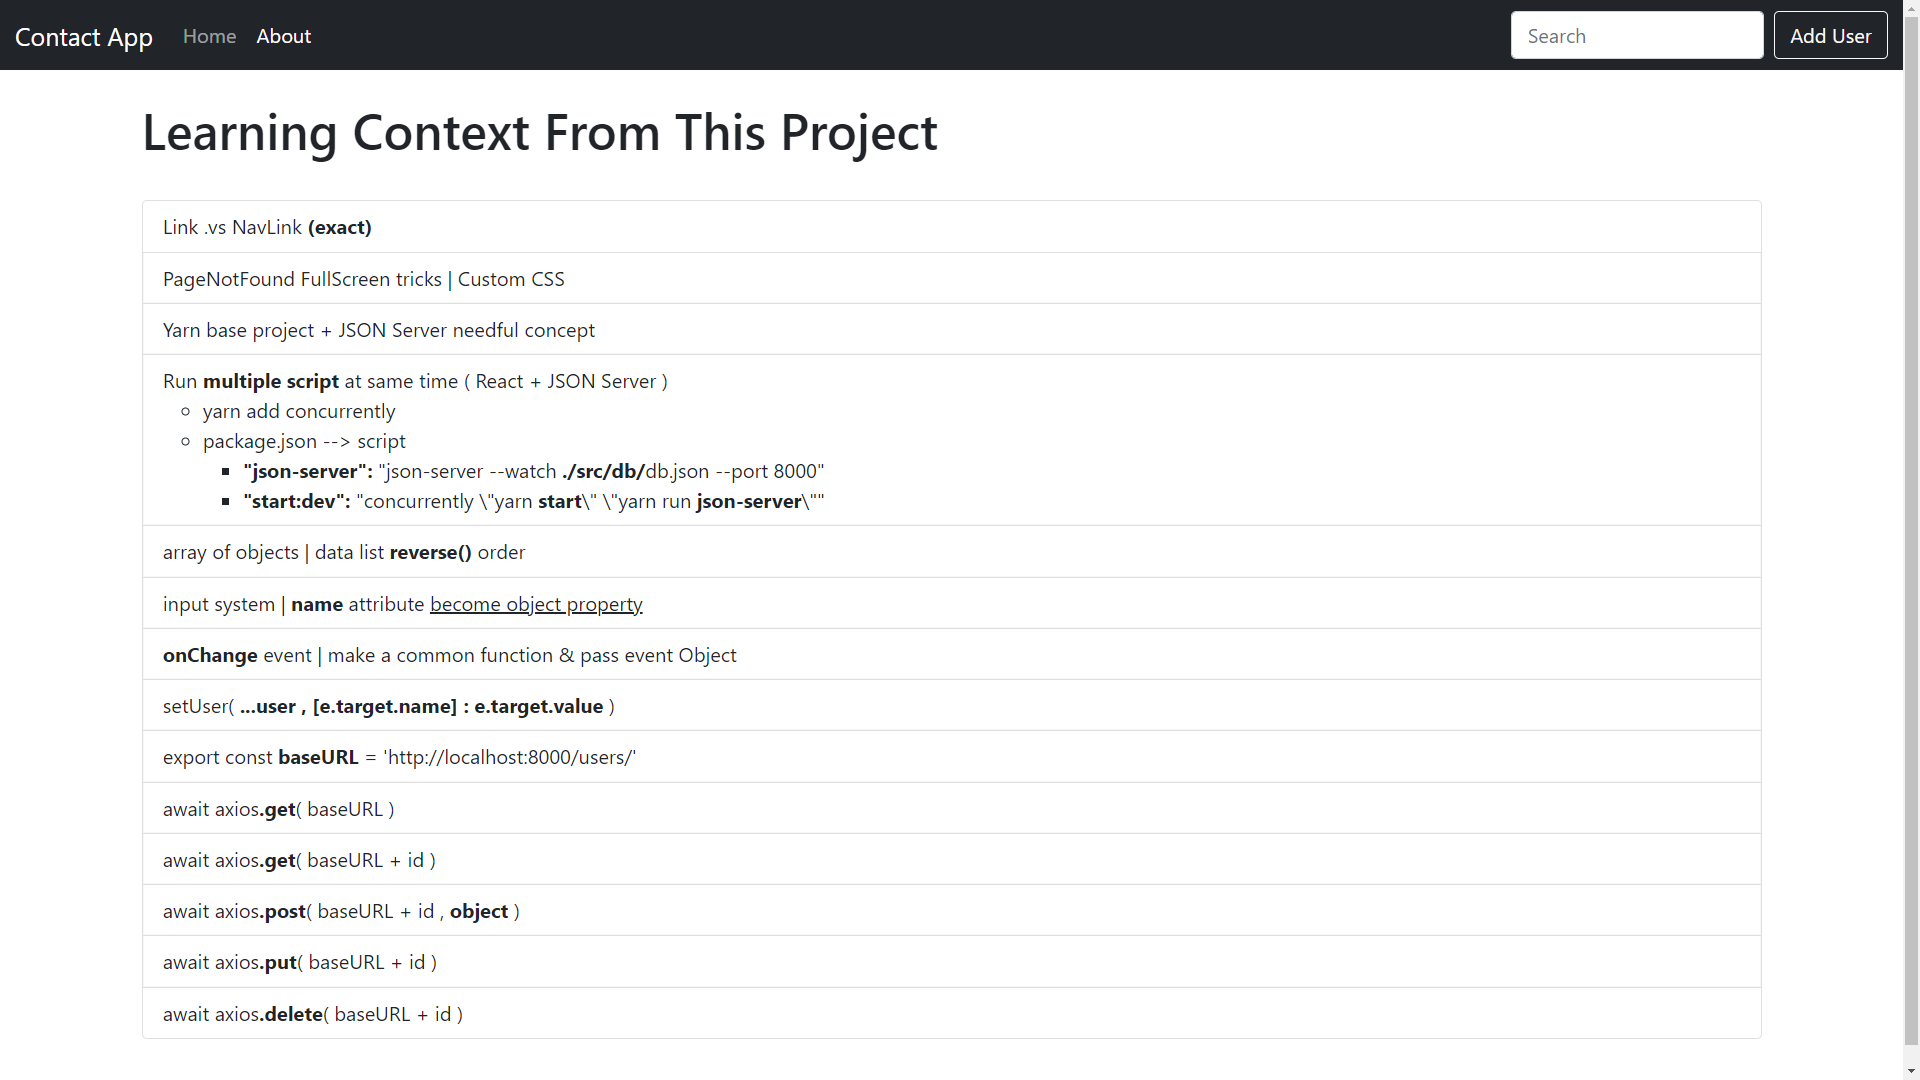
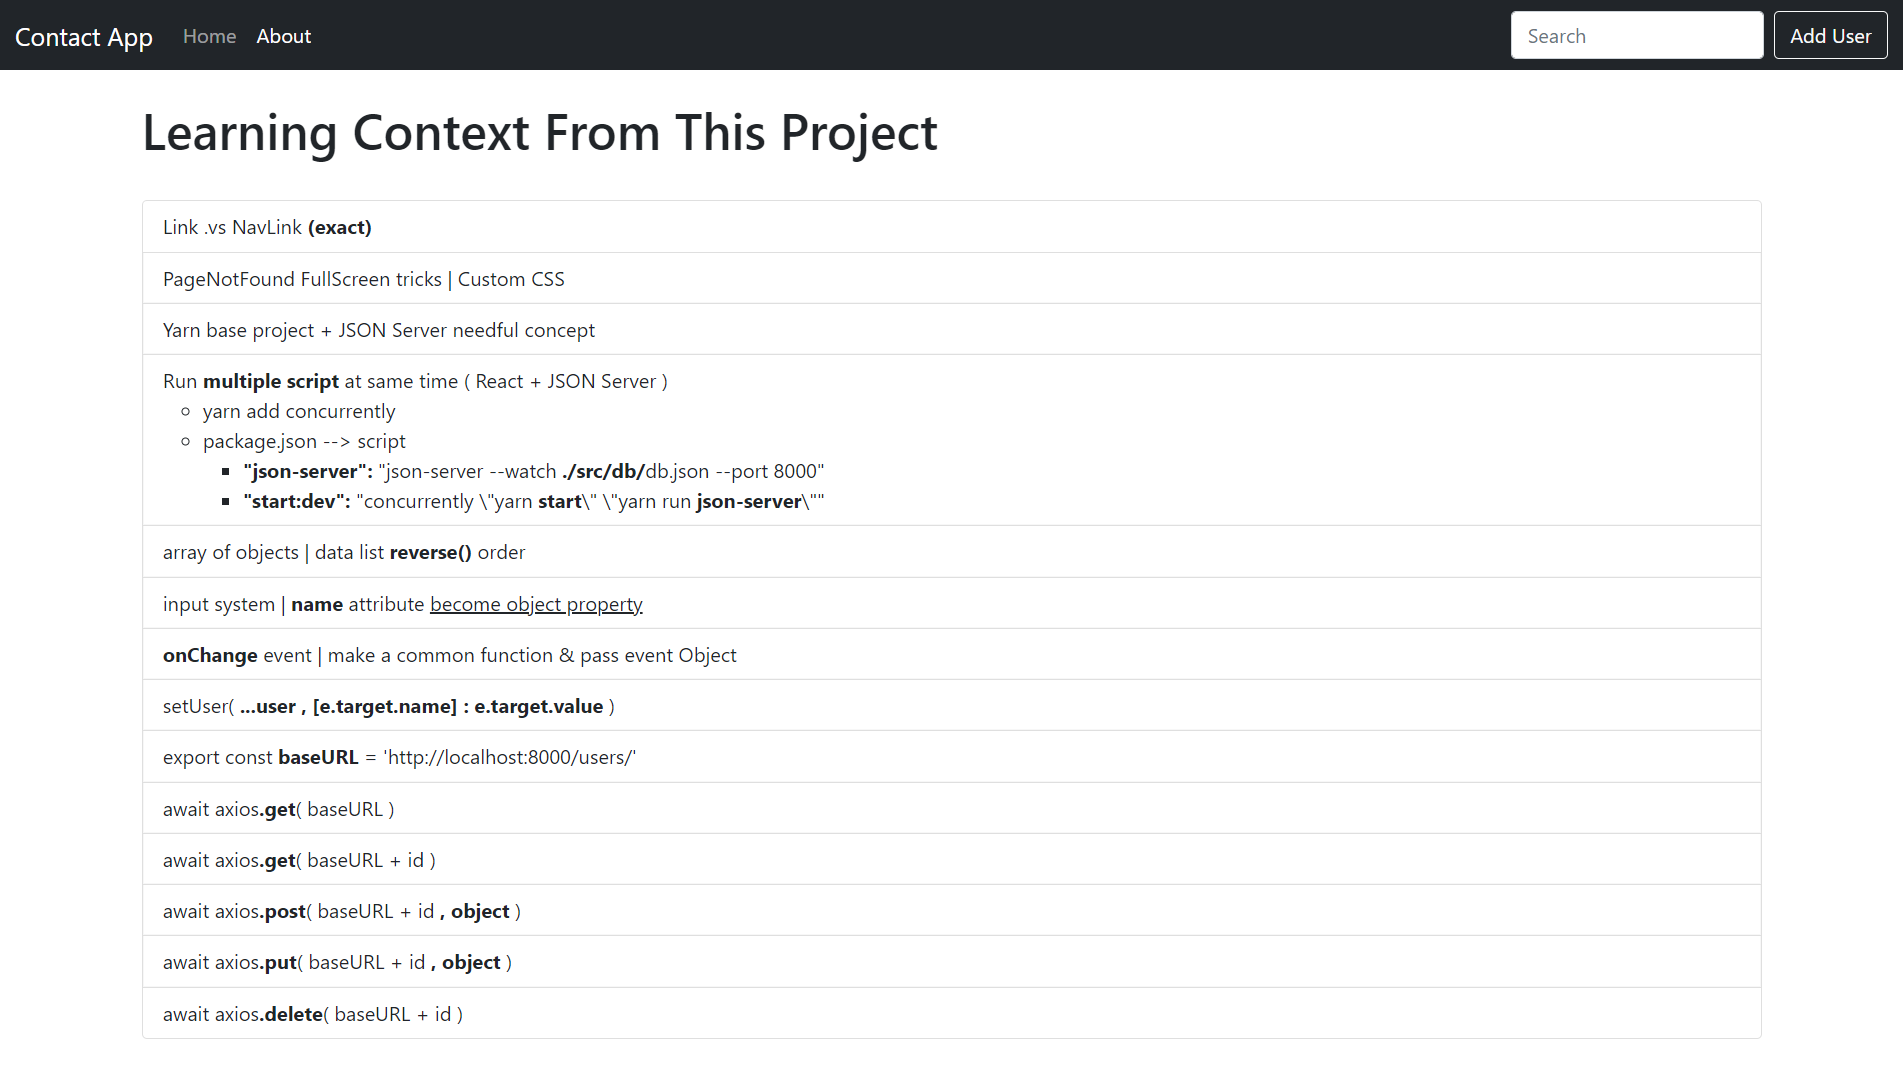
put concept resolve with img

diff --git a/src/components/About.js b/src/components/About.js
@@ -24,8 +24,8 @@ const About = () => {
                 <li className="list-group-item"> export const <strong>baseURL</strong> = 'http://localhost:8000/users/' </li>
                 <li className="list-group-item">await axios<strong>.get</strong>( baseURL )</li>
                 <li className="list-group-item">await axios<strong>.get</strong>( baseURL + id )</li>
-                <li className="list-group-item">await axios<strong>.post</strong>( baseURL + id , <strong>object</strong> )</li>
-                <li className="list-group-item">await axios<strong>.put</strong>( baseURL + id )</li>
+                <li className="list-group-item">await axios<strong>.post</strong>( baseURL + id<strong> , object</strong> )</li>
+                <li className="list-group-item">await axios<strong>.put</strong>( baseURL + id<strong> , object</strong> )</li>
                 <li className="list-group-item">await axios<strong>.delete</strong>( baseURL + id )</li>
             </ol>
         </div>
